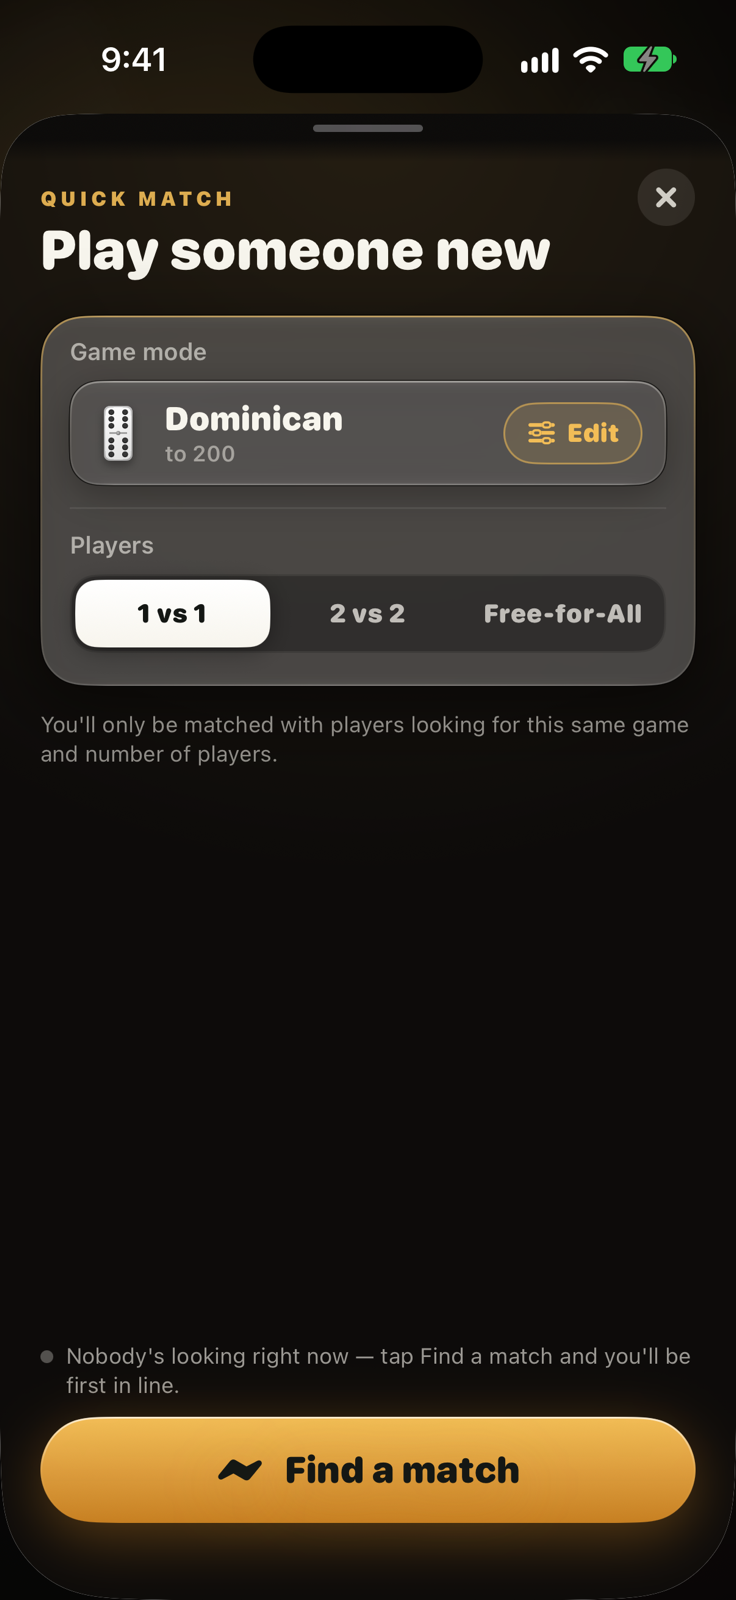
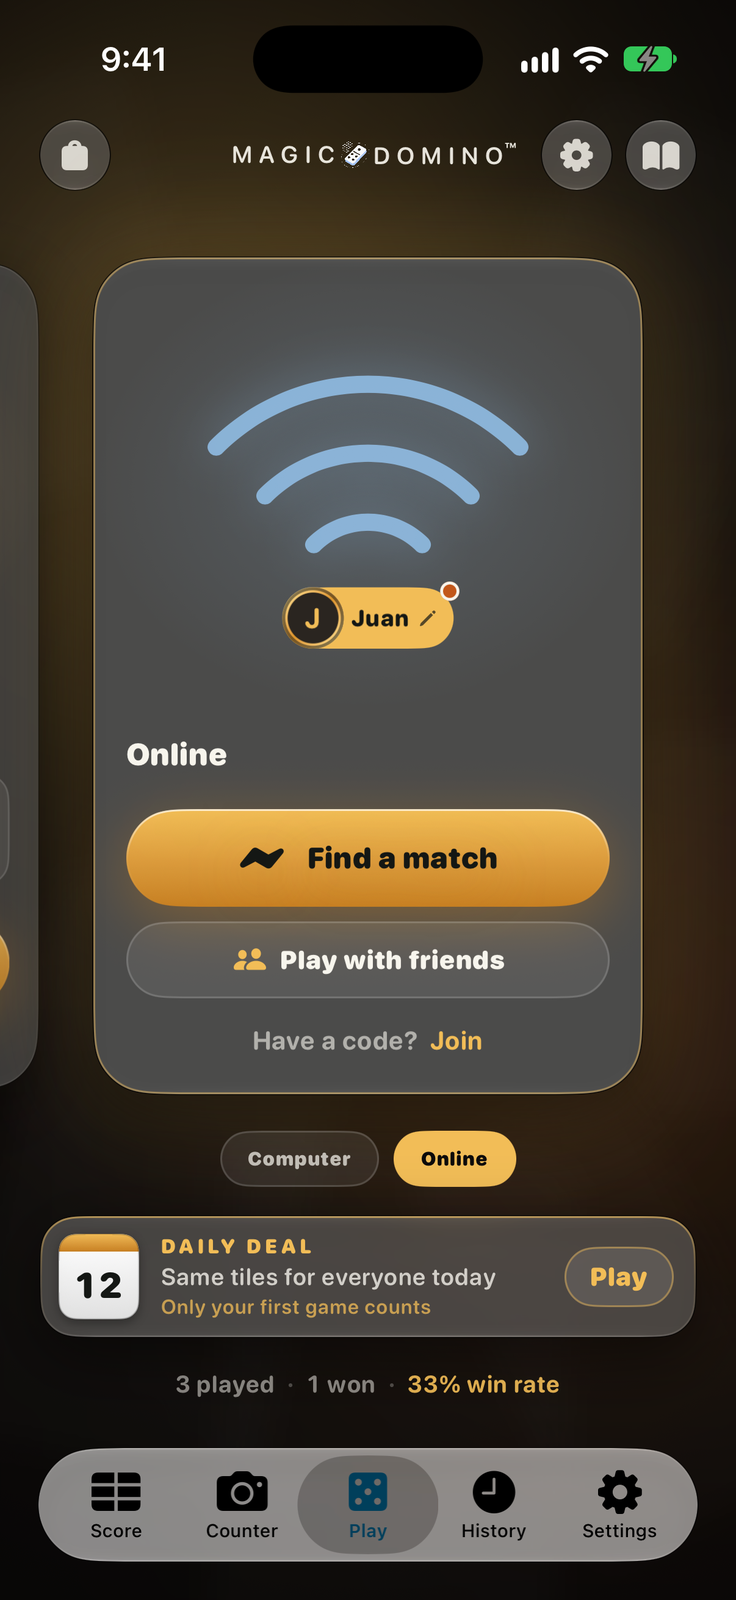
Site: language switch re-fits on every font load (+10px; Chrome for Mac clipped "English"); Play strip re-ordered (Capicúa 3rd, new Locked shot, hand card); Quick Match shot replaced by the home's Online card; pshots.s10 in 17 languages

diff --git a/index.html b/index.html
@@ -14,18 +14,18 @@
     <meta property="og:title" content="Magic Domino™ — Keep the score. Play the game.">
     <meta property="og:description" content="The dominoes scorekeeper trusted at real tables, and a real domino game with the rules you grew up with. Two rooms, one app.">
     <meta property="og:url" content="https://magicdomino.com/">
-    <meta property="og:image" content="https://magicdomino.com/social-card.png?v=20261012a">
+    <meta property="og:image" content="https://magicdomino.com/social-card.png?v=20261012b">
     <meta property="og:image:width" content="1024">
     <meta property="og:image:height" content="500">
     <meta name="twitter:card" content="summary_large_image">
     <meta name="twitter:title" content="Magic Domino™ — Keep the score. Play the game.">
     <meta name="twitter:description" content="The dominoes scorekeeper trusted at real tables, and a real domino game with the rules you grew up with. Two rooms, one app.">
-    <meta name="twitter:image" content="https://magicdomino.com/social-card.png?v=20261012a">
+    <meta name="twitter:image" content="https://magicdomino.com/social-card.png?v=20261012b">
 
     <link rel="preconnect" href="https://fonts.googleapis.com">
     <link rel="preconnect" href="https://fonts.gstatic.com" crossorigin>
     <link href="https://fonts.googleapis.com/css2?family=Fraunces:ital,opsz,wght@0,9..144,400;0,9..144,500;0,9..144,600;0,9..144,700;0,9..144,800;1,9..144,500&family=Inter:wght@400;500;600;700&display=swap" rel="stylesheet">
-    <link rel="stylesheet" href="site.css?v=20261012a">
+    <link rel="stylesheet" href="site.css?v=20261012b">
     <script src="/i18n.js?v=20261002b"></script>
     <script src="/site-stats.js?v=20261004a" defer></script>
 </head>
@@ -33,7 +33,7 @@
 
     <nav class="navbar" id="navbar">
         <a href="index.html" class="navbar-brand">
-            <img src="app-icon.png?v=20261012a" alt="" class="brand-icon"><span>Magic Domino<span class="brand-tm">™</span></span>
+            <img src="app-icon.png?v=20261012b" alt="" class="brand-icon"><span>Magic Domino<span class="brand-tm">™</span></span>
         </a>
         <button class="mobile-menu-toggle" onclick="toggleMenu()" aria-label="Menu" data-i18n-attr="aria-label:a11y.menu">☰</button>
         <div class="navbar-links" id="navbarLinks">
@@ -61,7 +61,7 @@
                     <a class="pane-link" href="#score"><span data-i18n="hero.scoreLink">See the scorekeeper</span> <span aria-hidden="true">↓</span></a>
                 </div>
                 <!-- A real phone, showing the real scoreboard, rising out of the pane. -->
-                <figure class="mock mock-score" aria-hidden="true"><img src="hero-score.png?v=20261012a" alt="" width="736" height="1600"></figure>
+                <figure class="mock mock-score" aria-hidden="true"><img src="hero-score.png?v=20261012b" alt="" width="736" height="1600"></figure>
             </div>
 
             <div class="pane pane-play world-play">
@@ -72,7 +72,7 @@
                     <a class="pane-link" href="#play"><span data-i18n="hero.playLink">See the game</span> <span aria-hidden="true">↓</span></a>
                 </div>
                 <!-- A real phone, showing the table mid-hand. -->
-                <figure class="mock mock-play" aria-hidden="true"><img src="hero-play.png?v=20261012a" alt="" width="736" height="1600"></figure>
+                <figure class="mock mock-play" aria-hidden="true"><img src="hero-play.png?v=20261012b" alt="" width="736" height="1600"></figure>
             </div>
 
         </div>
@@ -120,27 +120,27 @@
                          removes itself (shotAbsent) — no empty phone on the live site; drop the PNG
                          in and it shows here, first, with no markup change. -->
                     <figure class="shot"><div class="shot-frame">
-                        <img src="shot-1.png?v=20261012a" alt="AI score counting with the camera" data-i18n-attr="alt:alt.shot1" data-missing onload="shotLoaded(this)" onerror="shotAbsent(this)" loading="eager">
+                        <img src="shot-1.png?v=20261012b" alt="AI score counting with the camera" data-i18n-attr="alt:alt.shot1" data-missing onload="shotLoaded(this)" onerror="shotAbsent(this)" loading="eager">
                         <div class="ph" aria-hidden="true"><div class="ph-title" data-i18n="alt.shot1">AI score counting with the camera</div></div>
                     </div></figure>
                     <figure class="shot"><div class="shot-frame">
-                        <img src="shot-2.png?v=20261012a" alt="Scoreboard view" data-i18n-attr="alt:alt.shot2" data-missing onload="shotLoaded(this)" onerror="shotFailed(this)" loading="lazy">
+                        <img src="shot-2.png?v=20261012b" alt="Scoreboard view" data-i18n-attr="alt:alt.shot2" data-missing onload="shotLoaded(this)" onerror="shotFailed(this)" loading="lazy">
                         <div class="ph" aria-hidden="true"><div class="ph-title" data-i18n="alt.shot2">Scoreboard view</div></div>
                     </div></figure>
                     <figure class="shot"><div class="shot-frame">
-                        <img src="shot-6.png?v=20261012a" alt="Four players in OLED mode" data-i18n-attr="alt:alt.shot6" data-missing onload="shotLoaded(this)" onerror="shotFailed(this)" loading="lazy">
+                        <img src="shot-6.png?v=20261012b" alt="Four players in OLED mode" data-i18n-attr="alt:alt.shot6" data-missing onload="shotLoaded(this)" onerror="shotFailed(this)" loading="lazy">
                         <div class="ph" aria-hidden="true"><div class="ph-title" data-i18n="alt.shot6">Four players in OLED mode</div></div>
                     </div></figure>
                     <figure class="shot"><div class="shot-frame">
-                        <img src="shot-3.png?v=20261012a" alt="Tournament bracket" data-i18n-attr="alt:alt.shot3" data-missing onload="shotLoaded(this)" onerror="shotFailed(this)" loading="lazy">
+                        <img src="shot-3.png?v=20261012b" alt="Tournament bracket" data-i18n-attr="alt:alt.shot3" data-missing onload="shotLoaded(this)" onerror="shotFailed(this)" loading="lazy">
                         <div class="ph" aria-hidden="true"><div class="ph-title" data-i18n="alt.shot3">Tournament bracket</div></div>
                     </div></figure>
                     <figure class="shot"><div class="shot-frame">
-                        <img src="shot-4.png?v=20261012a" alt="Game history" data-i18n-attr="alt:alt.shot4" data-missing onload="shotLoaded(this)" onerror="shotFailed(this)" loading="lazy">
+                        <img src="shot-4.png?v=20261012b" alt="Game history" data-i18n-attr="alt:alt.shot4" data-missing onload="shotLoaded(this)" onerror="shotFailed(this)" loading="lazy">
                         <div class="ph" aria-hidden="true"><div class="ph-title" data-i18n="alt.shot4">Game history</div></div>
                     </div></figure>
                     <figure class="shot"><div class="shot-frame">
-                        <img src="shot-5.png?v=20261012a" alt="Appearance settings" data-i18n-attr="alt:alt.shot5" data-missing onload="shotLoaded(this)" onerror="shotFailed(this)" loading="lazy">
+                        <img src="shot-5.png?v=20261012b" alt="Appearance settings" data-i18n-attr="alt:alt.shot5" data-missing onload="shotLoaded(this)" onerror="shotFailed(this)" loading="lazy">
                         <div class="ph" aria-hidden="true"><div class="ph-title" data-i18n="alt.shot5">Appearance settings</div></div>
                     </div></figure>
                 </div>
@@ -165,31 +165,35 @@
                 <button class="scroll-arrow scroll-arrow-left" aria-label="Previous screenshots" data-i18n-attr="aria-label:a11y.prevShots" onclick="scrollStrip('playStrip', -1)">‹</button>
                 <div class="strip" id="playStrip">
                     <figure class="shot"><div class="shot-frame">
-                        <img src="play-shot-1.png?v=20261012a" alt="The table" data-i18n-attr="alt:pshots.s1" data-missing onload="shotLoaded(this)" onerror="shotFailed(this)" loading="lazy">
+                        <img src="play-shot-1.png?v=20261012b" alt="The table" data-i18n-attr="alt:pshots.s1" data-missing onload="shotLoaded(this)" onerror="shotFailed(this)" loading="lazy">
                         <div class="ph" aria-hidden="true"><div class="ph-title" data-i18n="pshots.s1">The table</div></div>
                     </div></figure>
                     <figure class="shot"><div class="shot-frame">
-                        <img src="play-shot-2.png?v=20261012a" alt="The front door" data-i18n-attr="alt:pshots.s5" data-missing onload="shotLoaded(this)" onerror="shotFailed(this)" loading="lazy">
+                        <img src="play-shot-2.png?v=20261012b" alt="The front door" data-i18n-attr="alt:pshots.s5" data-missing onload="shotLoaded(this)" onerror="shotFailed(this)" loading="lazy">
                         <div class="ph" aria-hidden="true"><div class="ph-title" data-i18n="pshots.s5">The front door</div></div>
                     </div></figure>
                     <figure class="shot"><div class="shot-frame">
-                        <img src="play-shot-3.png?v=20261012a" alt="Pick your game" data-i18n-attr="alt:pshots.s2" data-missing onload="shotLoaded(this)" onerror="shotFailed(this)" loading="lazy">
-                        <div class="ph" aria-hidden="true"><div class="ph-title" data-i18n="pshots.s2">Pick your game</div></div>
-                    </div></figure>
-                    <figure class="shot"><div class="shot-frame">
-                        <img src="play-shot-7.png?v=20261012a" alt="Find a match" data-i18n-attr="alt:pshots.s7" data-missing onload="shotLoaded(this)" onerror="shotFailed(this)" loading="lazy">
-                        <div class="ph" aria-hidden="true"><div class="ph-title" data-i18n="pshots.s7">Find a match</div></div>
-                    </div></figure>
-                    <figure class="shot"><div class="shot-frame">
-                        <img src="play-shot-8.png?v=20261012a" alt="Capicúa!" data-i18n-attr="alt:pshots.s8" data-missing onload="shotLoaded(this)" onerror="shotFailed(this)" loading="lazy">
+                        <img src="play-shot-8.png?v=20261012b" alt="Capicúa!" data-i18n-attr="alt:pshots.s8" data-missing onload="shotLoaded(this)" onerror="shotFailed(this)" loading="lazy">
                         <div class="ph" aria-hidden="true"><div class="ph-title" data-i18n="pshots.s8">Capicúa!</div></div>
                     </div></figure>
                     <figure class="shot"><div class="shot-frame">
-                        <img src="play-shot-6.png?v=20261012a" alt="The hand is over" data-i18n-attr="alt:pshots.s6" data-missing onload="shotLoaded(this)" onerror="shotFailed(this)" loading="lazy">
+                        <img src="play-shot-10.png?v=20261012b" alt="Locked!" data-i18n-attr="alt:pshots.s10" data-missing onload="shotLoaded(this)" onerror="shotFailed(this)" loading="lazy">
+                        <div class="ph" aria-hidden="true"><div class="ph-title" data-i18n="pshots.s10">Locked!</div></div>
+                    </div></figure>
+                    <figure class="shot"><div class="shot-frame">
+                        <img src="play-shot-6.png?v=20261012b" alt="The hand is over" data-i18n-attr="alt:pshots.s6" data-missing onload="shotLoaded(this)" onerror="shotFailed(this)" loading="lazy">
                         <div class="ph" aria-hidden="true"><div class="ph-title" data-i18n="pshots.s6">The hand is over</div></div>
                     </div></figure>
                     <figure class="shot"><div class="shot-frame">
-                        <img src="play-shot-9.png?v=20261012a" alt="How to play" data-i18n-attr="alt:pshots.s9" data-missing onload="shotLoaded(this)" onerror="shotFailed(this)" loading="lazy">
+                        <img src="play-shot-3.png?v=20261012b" alt="Pick your game" data-i18n-attr="alt:pshots.s2" data-missing onload="shotLoaded(this)" onerror="shotFailed(this)" loading="lazy">
+                        <div class="ph" aria-hidden="true"><div class="ph-title" data-i18n="pshots.s2">Pick your game</div></div>
+                    </div></figure>
+                    <figure class="shot"><div class="shot-frame">
+                        <img src="play-shot-7.png?v=20261012b" alt="Find a match" data-i18n-attr="alt:pshots.s7" data-missing onload="shotLoaded(this)" onerror="shotFailed(this)" loading="lazy">
+                        <div class="ph" aria-hidden="true"><div class="ph-title" data-i18n="pshots.s7">Find a match</div></div>
+                    </div></figure>
+                    <figure class="shot"><div class="shot-frame">
+                        <img src="play-shot-9.png?v=20261012b" alt="How to play" data-i18n-attr="alt:pshots.s9" data-missing onload="shotLoaded(this)" onerror="shotFailed(this)" loading="lazy">
                         <div class="ph" aria-hidden="true"><div class="ph-title" data-i18n="pshots.s9">How to play</div></div>
                     </div></figure>
                 </div>
@@ -215,7 +219,7 @@
                     <p class="lead" data-i18n="duo.desc">On the foldable iPhone, Magic Domino opens into two halves: the scoreboard on one side, the table on the other. Keep the score of the game in front of you while a hand plays out beside it — or put the bracket beside the match.</p>
                 </div>
                 <figure class="duo-frame">
-                    <img src="duo-split.png?v=20261012a" alt="Magic Domino on an opened iPhone Duo: the scoreboard on the left half, a domino hand in play on the right" width="1800" height="1266" loading="lazy">
+                    <img src="duo-split.png?v=20261012b" alt="Magic Domino on an opened iPhone Duo: the scoreboard on the left half, a domino hand in play on the right" width="1800" height="1266" loading="lazy">
                 </figure>
             </div>
         </div>
@@ -246,7 +250,7 @@
 
     <footer>
         <a href="#top" class="footer-brand">
-            <img src="app-icon.png?v=20261012a" alt="" class="brand-icon"><span>Magic Domino<span class="brand-tm">™</span></span>
+            <img src="app-icon.png?v=20261012b" alt="" class="brand-icon"><span>Magic Domino<span class="brand-tm">™</span></span>
         </a>
         <div class="store-row footer-store">
             <a href="https://apps.apple.com/us/app/magic-domino-ai-scorekeeper/id6747228055" class="store-badge" aria-label="Download on the App Store">

diff --git a/i18n.js b/i18n.js
@@ -450,6 +450,7 @@
     "pshots.s6": { en:"The hand is over", es:"Fin de la mano", fr:"Fin de la main", pt:"Fim da mão", ar:"انتهت الجولة", zh:"一局结束", nl:"De hand is gespeeld", de:"Die Hand ist gespielt", hi:"हाथ ख़त्म", bn:"হাত শেষ", id:"Ronde selesai", ur:"ہاتھ ختم", tr:"El bitti", it:"Fine della mano", ja:"一局の終わり", ko:"한 판 종료", ru:"Партия сыграна" },
     "pshots.s7": { en:"Find a match", es:"Encuentra con quién jugar", fr:"Trouvez une partie", pt:"Encontre uma partida", ar:"ابحث عن مباراة", zh:"找人来一局", nl:"Zoek een potje", de:"Mitspieler finden", hi:"मैच ढूँढें", bn:"ম্যাচ খুঁজুন", id:"Cari lawan", ur:"میچ تلاش کریں", tr:"Rakip bul", it:"Trova una partita", ja:"対戦相手を探す", ko:"상대 찾기", ru:"Найти соперника" },
     "pshots.s8": { en:"Capicúa!", es:"Capicúa!", fr:"Capicúa!", pt:"Capicúa!", ar:"Capicúa!", zh:"Capicúa!", nl:"Capicúa!", de:"Capicúa!", hi:"Capicúa!", bn:"Capicúa!", id:"Capicúa!", ur:"Capicúa!", tr:"Capicúa!", it:"Capicúa!", ja:"Capicúa!", ko:"Capicúa!", ru:"Capicúa!" },
+    "pshots.s10":      { en:"Locked!", es:"Tranque!", fr:"Bloqué !", pt:"Fechou!", ar:"انسداد!", zh:"封盘！", nl:"Geblokkeerd!", de:"Gesperrt!", hi:"जाम!", bn:"জ্যাম!", id:"Mati!", ur:"جام!", tr:"Kapandı!", it:"Chiuso!", ja:"詰み！", ko:"막혔다!", ru:"Рыба!" },
     "pshots.s9": { en:"How to play", es:"Cómo se juega", fr:"Comment jouer", pt:"Como jogar", ar:"طريقة اللعب", zh:"怎么玩", nl:"Zo speel je", de:"So wird gespielt", hi:"कैसे खेलें", bn:"কীভাবে খেলবেন", id:"Cara bermain", ur:"کیسے کھیلیں", tr:"Nasıl oynanır", it:"Come si gioca", ja:"遊び方", ko:"게임 방법", ru:"Как играть" },
     "duo.eyebrow": { en:"iPhone Duo", es:"iPhone Duo", fr:"iPhone Duo", pt:"iPhone Duo", ar:"iPhone Duo", zh:"iPhone Duo", nl:"iPhone Duo", de:"iPhone Duo", hi:"iPhone Duo", bn:"iPhone Duo", id:"iPhone Duo", ur:"iPhone Duo", tr:"iPhone Duo", it:"iPhone Duo", ja:"iPhone Duo", ko:"iPhone Duo", ru:"iPhone Duo" },
     "duo.title": { en:"Keeping score? Tap Play, and <em>the table</em> opens on the other half.", es:"¿Anotando? Toca Jugar y <em>la mesa</em> se abre en la otra mitad.", fr:"Vous tenez le score ? Touchez Jouer, et <em>la table</em> s’ouvre sur l’autre moitié.", pt:"Marcando pontos? Toque em Jogar e <em>a mesa</em> abre na outra metade.", ar:"تسجّل النقاط؟ اضغط «العب» وتنفتح <em>الطاولة</em> في النصف الآخر.", zh:"正在记分？点一下「打牌」，<em>牌桌</em>就在另一半打开。", nl:"Stand aan het bijhouden? Tik op Spelen en <em>de tafel</em> opent op de andere helft.", de:"Du führst den Stand? Tipp auf Spielen, und <em>der Tisch</em> öffnet sich auf der anderen Hälfte.", hi:"स्कोर रख रहे हैं? Play पर टैप करें और <em>मेज़</em> दूसरे आधे में खुल जाती है।", bn:"স্কোর রাখছেন? Play-এ ট্যাপ করুন, <em>টেবিল</em> অন্য অর্ধে খুলে যায়।", id:"Sedang mencatat skor? Ketuk Main, dan <em>mejanya</em> terbuka di separuh yang lain.", ur:"اسکور رکھ رہے ہیں؟ Play پر ٹیپ کریں اور <em>میز</em> دوسرے آدھے میں کھل جاتی ہے۔", tr:"Puan mı tutuyorsun? Oyna’ya dokun, <em>masa</em> öbür yarıda açılsın.", it:"Stai segnando i punti? Tocca Gioca e <em>il tavolo</em> si apre sull’altra metà.", ja:"スコアをつけている途中で「プレイ」をタップすると、もう半分に<em>卓</em>が開きます。", ko:"점수를 기록하는 중에 플레이를 누르면 <em>판</em>이 다른 반쪽에 열립니다.", ru:"Ведёте счёт? Нажмите «Играть» — и <em>стол</em> откроется на второй половине." },
@@ -580,10 +581,18 @@
       fitSwitch(sel);
       // The web font can arrive after this first fit, and it is wider than the
       // fallback the probe measured with — "English" closed as "Englisl"
-      // (2026-10-12). Fit again once every font is in.
-      if (document.fonts && document.fonts.ready) {
-        document.fonts.ready.then((function (s) { return function () { fitSwitch(s); }; })(sel));
-      }
+      // (2026-10-12). `fonts.ready` alone was NOT enough on Chrome for Mac: it can
+      // resolve before the web font has even been requested. So fit again whenever
+      // any font finishes loading, when the page has loaded, and once more after.
+      (function (s) {
+        var refit = function () { fitSwitch(s); };
+        if (document.fonts) {
+          if (document.fonts.ready) document.fonts.ready.then(refit);
+          if (document.fonts.addEventListener) document.fonts.addEventListener("loadingdone", refit);
+        }
+        window.addEventListener("load", refit);
+        setTimeout(refit, 1500);
+      })(sel);
     }
 
     // Store badges: the stores' own localized artwork, English fallback.
@@ -609,7 +618,7 @@
 
   // Size the closed switcher to the chosen language's name: the text, plus the
   // control's OWN padding and border as computed (the arrow sits in the right
-  // padding), plus 4px so a rounding error can never clip the last letter.
+  // padding), plus 10px: Chrome for Mac insets a select's text a few pixels on its own.
   function fitSwitch(sel) {
     try {
       var cs = getComputedStyle(sel);
@@ -626,7 +635,7 @@
       var chrome = parseFloat(cs.paddingLeft) + parseFloat(cs.paddingRight) +
                    parseFloat(cs.borderLeftWidth) + parseFloat(cs.borderRightWidth);
       sel.style.boxSizing = "border-box";
-      sel.style.width = Math.ceil(probe.getBoundingClientRect().width + chrome + 4) + "px";
+      sel.style.width = Math.ceil(probe.getBoundingClientRect().width + chrome + 10) + "px";
       document.body.removeChild(probe);
     } catch (e) {}
   }

diff --git a/privacy.html b/privacy.html
@@ -9,14 +9,14 @@
     <link rel="preconnect" href="https://fonts.googleapis.com">
     <link rel="preconnect" href="https://fonts.gstatic.com" crossorigin>
     <link href="https://fonts.googleapis.com/css2?family=Fraunces:ital,opsz,wght@0,9..144,400;0,9..144,500;0,9..144,600;0,9..144,700;1,9..144,500&family=Inter:wght@400;500;600;700&display=swap" rel="stylesheet">
-    <link rel="stylesheet" href="site.css?v=20261012a">
+    <link rel="stylesheet" href="site.css?v=20261012b">
     <script src="/i18n.js?v=20261003a"></script>
     <script src="/site-stats.js?v=20261004a" defer></script>
 </head>
 <body>
     <nav class="navbar">
         <a href="index.html" class="navbar-brand">
-            <img src="app-icon.png?v=20261012a" alt="" class="brand-icon"><span>Magic Domino<span class="brand-tm">™</span></span>
+            <img src="app-icon.png?v=20261012b" alt="" class="brand-icon"><span>Magic Domino<span class="brand-tm">™</span></span>
         </a>
         <button class="mobile-menu-toggle" onclick="toggleMenu()" aria-label="Menu" data-i18n-attr="aria-label:a11y.menu">☰</button>
         <div class="navbar-links" id="navbarLinks">
@@ -141,7 +141,7 @@
 
     <footer>
         <a href="index.html" class="footer-brand">
-            <img src="app-icon.png?v=20261012a" alt="" class="brand-icon"><span>Magic Domino<span class="brand-tm">™</span></span>
+            <img src="app-icon.png?v=20261012b" alt="" class="brand-icon"><span>Magic Domino<span class="brand-tm">™</span></span>
         </a>
         <div class="footer-links">
             <a href="index.html#score" data-i18n="nav.score">Scorekeeper</a>

diff --git a/support.html b/support.html
@@ -9,14 +9,14 @@
     <link rel="preconnect" href="https://fonts.googleapis.com">
     <link rel="preconnect" href="https://fonts.gstatic.com" crossorigin>
     <link href="https://fonts.googleapis.com/css2?family=Fraunces:ital,opsz,wght@0,9..144,400;0,9..144,500;0,9..144,600;0,9..144,700;1,9..144,500&family=Inter:wght@400;500;600;700&display=swap" rel="stylesheet">
-    <link rel="stylesheet" href="site.css?v=20261012a">
+    <link rel="stylesheet" href="site.css?v=20261012b">
     <script src="/i18n.js?v=20261002b"></script>
     <script src="/site-stats.js?v=20261004a" defer></script>
 </head>
 <body>
     <nav class="navbar">
         <a href="index.html" class="navbar-brand">
-            <img src="app-icon.png?v=20261012a" alt="" class="brand-icon"><span>Magic Domino<span class="brand-tm">™</span></span>
+            <img src="app-icon.png?v=20261012b" alt="" class="brand-icon"><span>Magic Domino<span class="brand-tm">™</span></span>
         </a>
         <button class="mobile-menu-toggle" onclick="toggleMenu()" aria-label="Menu" data-i18n-attr="aria-label:a11y.menu">☰</button>
         <div class="navbar-links" id="navbarLinks">
@@ -259,7 +259,7 @@
 
     <footer>
         <a href="index.html" class="footer-brand">
-            <img src="app-icon.png?v=20261012a" alt="" class="brand-icon"><span>Magic Domino<span class="brand-tm">™</span></span>
+            <img src="app-icon.png?v=20261012b" alt="" class="brand-icon"><span>Magic Domino<span class="brand-tm">™</span></span>
         </a>
         <div class="footer-links">
             <a href="index.html#score" data-i18n="nav.score">Scorekeeper</a>

diff --git a/terms.html b/terms.html
@@ -9,14 +9,14 @@
     <link rel="preconnect" href="https://fonts.googleapis.com">
     <link rel="preconnect" href="https://fonts.gstatic.com" crossorigin>
     <link href="https://fonts.googleapis.com/css2?family=Fraunces:ital,opsz,wght@0,9..144,400;0,9..144,500;0,9..144,600;0,9..144,700;1,9..144,500&family=Inter:wght@400;500;600;700&display=swap" rel="stylesheet">
-    <link rel="stylesheet" href="site.css?v=20261012a">
+    <link rel="stylesheet" href="site.css?v=20261012b">
     <script src="/i18n.js?v=20261002b"></script>
     <script src="/site-stats.js?v=20261004a" defer></script>
 </head>
 <body>
     <nav class="navbar">
         <a href="index.html" class="navbar-brand">
-            <img src="app-icon.png?v=20261012a" alt="" class="brand-icon"><span>Magic Domino<span class="brand-tm">™</span></span>
+            <img src="app-icon.png?v=20261012b" alt="" class="brand-icon"><span>Magic Domino<span class="brand-tm">™</span></span>
         </a>
         <button class="mobile-menu-toggle" onclick="toggleMenu()" aria-label="Menu" data-i18n-attr="aria-label:a11y.menu">☰</button>
         <div class="navbar-links" id="navbarLinks">
@@ -177,7 +177,7 @@
 
     <footer>
         <a href="index.html" class="footer-brand">
-            <img src="app-icon.png?v=20261012a" alt="" class="brand-icon"><span>Magic Domino<span class="brand-tm">™</span></span>
+            <img src="app-icon.png?v=20261012b" alt="" class="brand-icon"><span>Magic Domino<span class="brand-tm">™</span></span>
         </a>
         <div class="footer-links">
             <a href="index.html#score" data-i18n="nav.score">Scorekeeper</a>

diff --git a/SCREENSHOTS.md b/SCREENSHOTS.md
@@ -63,13 +63,14 @@ already exists in all 17 languages.
 |---|---|
 | `play-shot-1.png` | The table mid-hand: 2 vs 2 (Juan & Rico against Luna & Max), a long snake, four playable tiles lit |
 | `play-shot-2.png` | The Play home: the Computer card's seating picture (Rico across, Max and Luna on their nameplates, your pill), Table setup row, Deal, the Computer · Online tabs, the Daily Deal row |
-| `play-shot-3.png` | Pick your game: the ten tables, Dominican selected |
-| `play-shot-7.png` | The Quick Match sheet: Game mode (Dominican, to 200, Edit), Players (1 vs 1), Find a match |
 | `play-shot-8.png` | The CAPICÚA! card over a full board: BOTH ENDS +25, the YOU pill (a staged hand, see below) |
+| `play-shot-10.png` | The LOCKED! card the moment a table locks, sparks still flying (2 vs 2, Dominican) |
 | `play-shot-6.png` | The hand card after a lock: JUAN & RICO TAKE THE HAND · +14 · The count (Rico locked it, 1 against Max's 5) |
+| `play-shot-3.png` | Pick your game: the ten tables, Dominican selected |
+| `play-shot-7.png` | The Play home with the Online card in front: the signal over your pill, Find a match, Play with friends, "Have a code? Join" |
 | `play-shot-9.png` | The rulebook, How to play, Dominican selected: the Dominican card, The object, Who's on your side |
 
-The table above is in STRIP order; the strip ENDS on the rulebook by decision (2026-10-01).
+The table above is in STRIP order (Juan, 2026-10-12: Capicúa third, then Locked, then the hand card); the strip ENDS on the rulebook by decision (2026-10-01). ⚠ `play-shot-8` (Capicúa) still shows the OLD score header ("You 0 · Rico 0") — recapture it.
 Neither strip has a row of feature or table chips above it any more (removed
 2026-10-01: the table picker shot and the premium section already say it). `play-shot-4` (the lobby with its code) was dropped
 2026-10-01 by decision — a code on a marketing page is noise. `play-shot-8` was taken
@@ -77,7 +78,7 @@ from a deal staged by a TEMPORARY DEBUG switch (deal until the computer, playing
 seat, ends a hand with your capicúa; hand it back one tile short), then removed: a
 capicúa is too rare to wait for. The card is up ~1.5 s, so start a background
 `simctl io … screenshot` loop BEFORE the tap and pick the settled frame.
-All seven are 736 × 1600, resized from 1206 × 2622 `simctl io … screenshot` captures,
+All eight are 736 × 1600, resized from 1206 × 2622 `simctl io … screenshot` captures,
 recaptured 2026-10-01 on "MD Site Shots" with the status bar overridden to 9:41
 (the table and the hand card show none — Play hides it in a game). Launched with
 `-debugLaunchTab play -debugPremium 1` so no ad banner shows;
